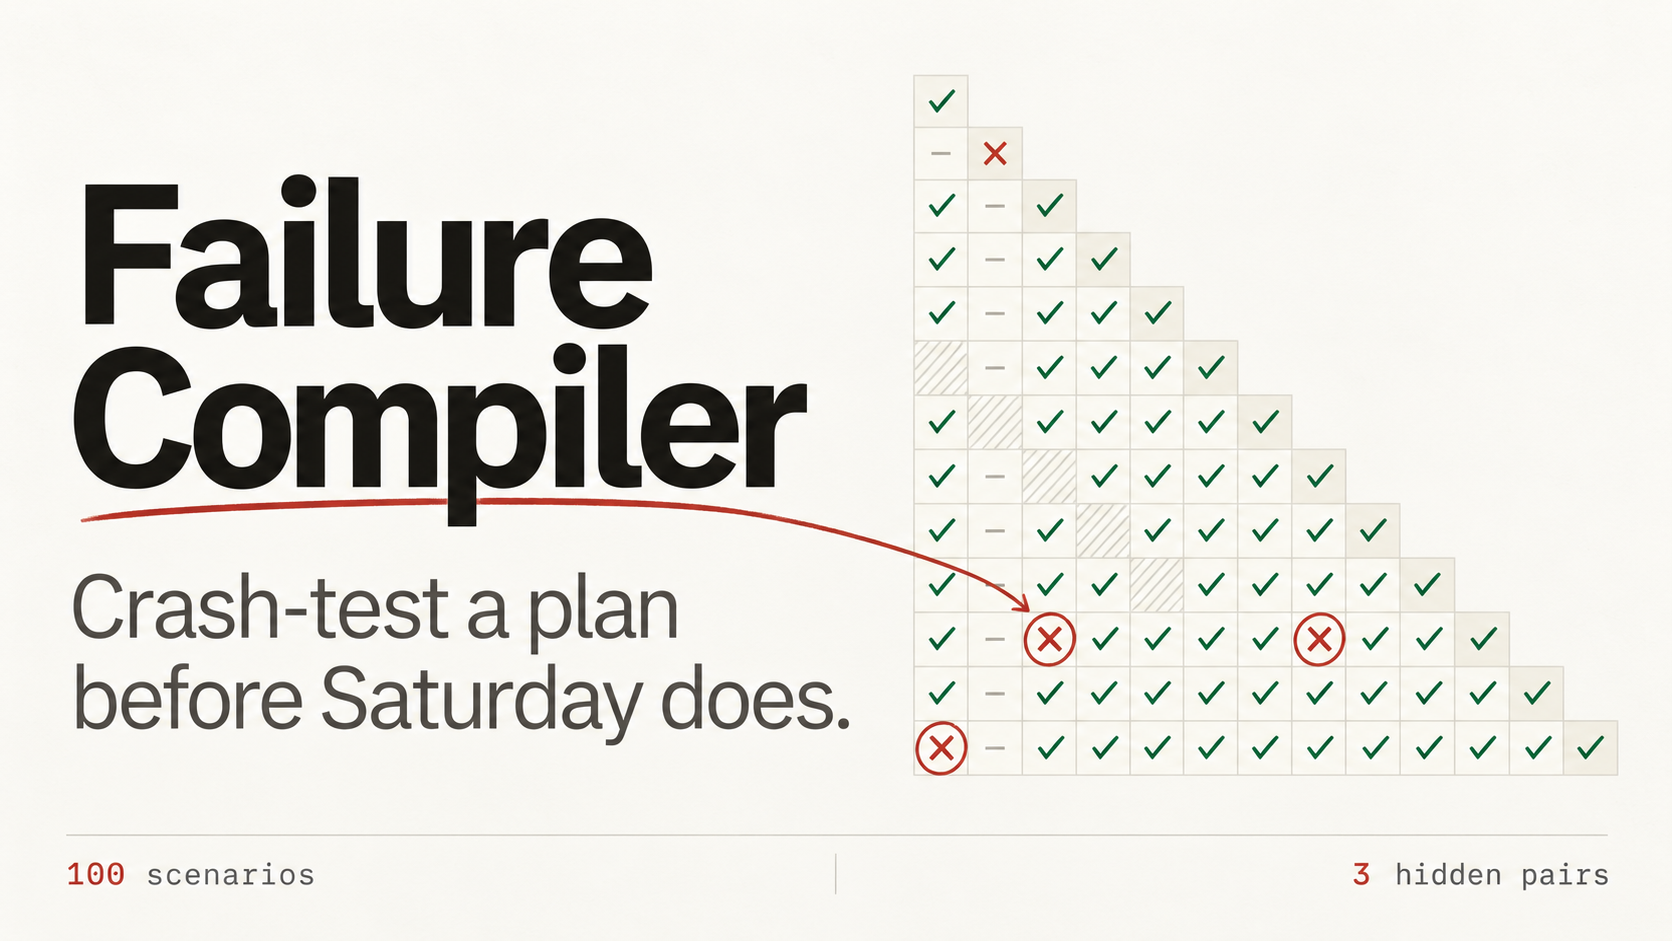
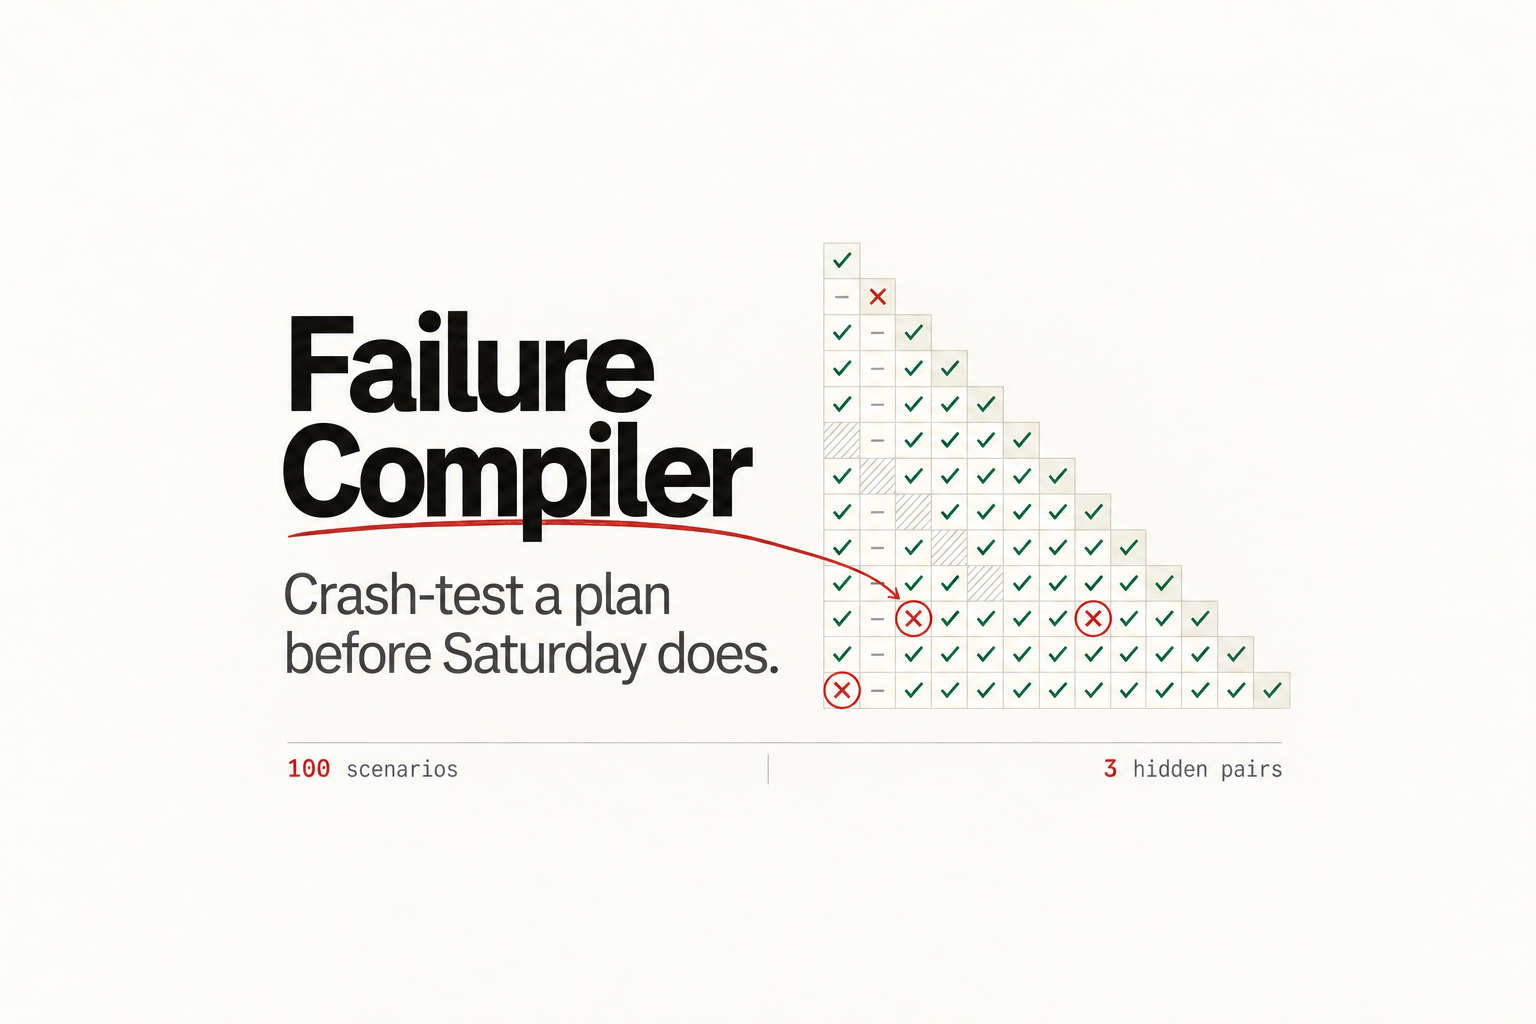
Inset submission covers to fit project card crops

diff --git a/assets/submission/prompts.md b/assets/submission/prompts.md
@@ -44,3 +44,40 @@ Palette: #F6F4EE warm paper, #FBFAF6 sheet, #1A1916 ink, #1E6B47 green, #B23A2E 
 Keep the title strong and legible at small square thumbnail sizes. Minimal, crisp, calm graphic design. All lettering must be correct, especially "Compiler" and "scenarios".
 Avoid: photographic objects, 3D, gradients, shadows, glows, robots, awards, invented features, fake product windows, tiny labels, watermarks, provider names or additional copy.
 ```
+
+## Card crop revision
+
+Tool: built-in `image_gen`, editing the original saved covers. Only composition scale and surrounding paper margins were requested to change.
+
+### thumbnail.png revision
+
+```text
+Edit target: the supplied Failure Compiler landscape thumbnail.
+Change only the scale and canvas framing so it fits a tightly cropped project card. Preserve the title, tagline, colors, matrix illustration and exact wording from the original. Do not redesign or add anything.
+Output a landscape 3:2 image, approximately 1200 x 800 pixels. Uniformly SHRINK the ENTIRE existing composition to about 68% of the canvas width, including its footer, then center it both horizontally and vertically. Extend the warm off-white paper background around it. Leave very generous EMPTY paper padding: at least 16% of canvas width on the left and right, and at least 20% of canvas height above and below the entire artwork. There must be no title, caption, footer number or matrix cell near an outside edge.
+All important content should fit inside the central 68% width and 60% height. This must survive centered 3:2, 16:9 and square card crops without cutting off Failure, Compiler or the footer.
+Keep these exact original words:
+"Failure"
+"Compiler"
+"Crash-test a plan"
+"before Saturday does."
+"100 scenarios"
+"3 hidden pairs"
+Keep a clear readable hierarchy, but the artwork and typography should be visibly smaller than in the supplied original. Flat warm paper, near-black ink, deep green checks, brick-red crosses and underline. No frame, no browser UI, no extra labels, no new graphics, no watermark.
+```
+
+### cover-square.png revision
+
+```text
+Edit target: the supplied Failure Compiler square cover. Use case: precise-object-edit.
+Change ONLY the scale and framing so every element survives a tightly cropped project card. Preserve all original title letters, tagline, colors, triangular grid and footer wording. Do not redesign or add anything.
+Output a SQUARE 1:1 image, approximately 1024 x 1024. Uniformly shrink the ENTIRE existing composition, including title, tagline, matrix and footer, until the full artwork occupies no more than the CENTRAL 54% OF THE CANVAS HEIGHT. Center this shrunken artwork horizontally and vertically. Extend the same warm off-white paper background around it. Leave at least 23% of canvas height completely empty at BOTH top and bottom. Leave generous blank sides too. This substantial empty padding is intentional and required: the square will be center-cropped to a landscape 3:2 or 16:9 card. Nothing may get cut off in that crop.
+Keep exact original words:
+"Failure"
+"Compiler"
+"Crash-test a plan"
+"before Saturday does."
+"100 scenarios"
+"3 hidden pairs"
+Preserve the original stacked title above the grid, green checks, red crosses, fine underline and thin footer rule, with the whole poster clearly smaller and surrounded by blank paper. All typography and footer labels inside the central safe area. No border, extra text, browser UI, watermark or added graphics.
+```

diff --git a/assets/submission/README.md b/assets/submission/README.md
@@ -6,10 +6,12 @@ All artwork and website screenshots are saved in this folder. This pack represen
 
 | File | Dimensions | Use |
 | --- | --- | --- |
-| [thumbnail.png](thumbnail.png) | 1672 × 941 | Wide project or demo-video thumbnail. |
-| [cover-square.png](cover-square.png) | 1254 × 1254 | Square project cover or social post. |
+| [thumbnail.png](thumbnail.png) | 1536 × 1024 | Landscape project thumbnail, with smaller artwork and generous crop margins. |
+| [cover-square.png](cover-square.png) | 1254 × 1254 | Square cover, with the title, grid and footer inset for a landscape card crop. |
 
 The covers are generated editorial artwork using the project's existing name, tagline, palette and grid motif. They are not app screenshots. The exact prompts and generation method are recorded in [prompts.md](prompts.md).
+
+Both covers were revised to fit the project card shown in the review. The full composition is smaller inside the image, with empty paper around it. Use the landscape thumbnail for the project card; the square cover also keeps its full title and footer visible in a centered 337 × 223 card crop. These versions replace the earlier edge-filling covers.
 
 ## Actual website screenshots
 
